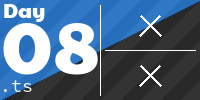
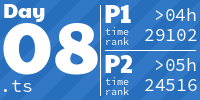
Solving day 8

diff --git a/src/08/calculateVisibleTrees.ts b/src/08/calculateVisibleTrees.ts
@@ -1,0 +1,77 @@
+import { parseInput } from '../lib/parseInput';
+
+const createEmpty2dArray = (length: number): Array<Array<number>> => {
+    return Array.from({ length }, () => []);
+};
+
+// Get rows and columns in O(n) time
+const getRowsAndColumns = (input: Array<string>) => {
+    // Init empty 2d arrays for columns and rows
+    const columns = createEmpty2dArray(input.length);
+    const rows = createEmpty2dArray(input.length);
+    for (let i = 0; i <= input.length - 1; i++) {
+        const currentRow = input[i].split('');
+        for (let j = 0; j <= currentRow.length - 1; j++) {
+            const tree = parseInt(currentRow[j], 10);
+            rows[i].push(tree);
+            columns[j].push(tree);
+        }
+    }
+    return [columns, rows];
+};
+
+const isLargerNumber = (threshold: number) => (input: number) => input >= threshold;
+
+const getScenicScore = (higherTreeIndex: number, lengthOfDirection: number) => {
+    return higherTreeIndex === -1 ? lengthOfDirection : higherTreeIndex + 1;
+};
+
+export const calculateVisibleTrees = (inputPath: string): number => {
+    const input = parseInput(inputPath).split('\n');
+    const [columns, rows] = getRowsAndColumns(input);
+    // Get amount of perimeter trees
+    let result = rows.length * 2 + (rows.length - 2) * 2;
+    for (let i = 1; i <= rows.length - 2; i++) {
+        const rowTrees = rows[i];
+        for (let j = 1; j <= rowTrees.length - 2; j++) {
+            const currentTree = rowTrees[j];
+            // Compare with the highest tree in each direction
+            if (
+                currentTree > Math.max(...columns[j].slice(0, i)) ||
+                currentTree > Math.max(...columns[j].slice(i + 1)) ||
+                currentTree > Math.max(...rows[i].slice(0, j)) ||
+                currentTree > Math.max(...rows[i].slice(j + 1))
+            ) {
+                result += 1;
+            }
+        }
+    }
+    return result;
+};
+
+export const calculateScenicScore = (inputPath: string): number => {
+    const input = parseInput(inputPath).split('\n');
+    const [columns, rows] = getRowsAndColumns(input);
+    let max = 0;
+    for (let i = 1; i <= rows.length - 2; i++) {
+        const rowTrees = rows[i];
+        for (let j = 1; j <= rowTrees.length - 2; j++) {
+            const indexCallback = isLargerNumber(rowTrees[j]);
+            const treesInNorth = columns[j].slice(0, i).reverse();
+            const treesInSouth = columns[j].slice(i + 1);
+            const treesInWest = rows[i].slice(0, j).reverse();
+            const treesInEast = rows[i].slice(j + 1);
+
+            const scoreForTree =
+                getScenicScore(treesInNorth.findIndex(indexCallback), treesInNorth.length) *
+                getScenicScore(treesInSouth.findIndex(indexCallback), treesInSouth.length) *
+                getScenicScore(treesInWest.findIndex(indexCallback), treesInWest.length) *
+                getScenicScore(treesInEast.findIndex(indexCallback), treesInEast.length);
+
+            if (scoreForTree > max) {
+                max = scoreForTree;
+            }
+        }
+    }
+    return max;
+};

diff --git a/tests/08/index.ts b/tests/08/index.ts
@@ -1,0 +1,15 @@
+import path from 'path';
+import { calculateVisibleTrees, calculateScenicScore } from '../../src/08/calculateVisibleTrees';
+
+const INPUT_PATH = path.join(__dirname, 'input.txt');
+
+describe('testing day 8', () => {
+    test('Correctly computing valid input for part 1', () => {
+        const result = calculateVisibleTrees(INPUT_PATH);
+        expect(result).toBe(21);
+    });
+    test('Correctly computing valid input for part 2', () => {
+        const result = calculateScenicScore(INPUT_PATH);
+        expect(result).toBe(8);
+    });
+});

diff --git a/src/08/index.ts b/src/08/index.ts
@@ -1,0 +1,9 @@
+import path from 'path';
+import { calculateVisibleTrees, calculateScenicScore } from './calculateVisibleTrees';
+
+const INPUT_PATH = path.join(__dirname, 'input.txt');
+const result1 = calculateVisibleTrees(INPUT_PATH);
+const result2 = calculateScenicScore(INPUT_PATH);
+
+console.log(`Result for part 1 is ${result1}`);
+console.log(`Result for part 2 is ${result2}`);

diff --git a/README.MD b/README.MD
@@ -1,6 +1,6 @@
 # Advent of code 2022 &middot; [![GitHub license](https://img.shields.io/github/license/vladshlianin/advent-of-code-2022)](https://github.com/vladshlianin/advent-of-code-2022/blob/main/LICENSE) ![Last commit](https://img.shields.io/github/last-commit/vladshlianin/advent-of-code-2022)
 
-## Solutions for <a href='https://adventofcode.com/'>Advent of code - 2022</a> written in Typescript &middot; 14 ⭐
+## Solutions for <a href='https://adventofcode.com/'>Advent of code - 2022</a> written in Typescript &middot; 16 ⭐
 </h1>
 
 <a href="src/01">
